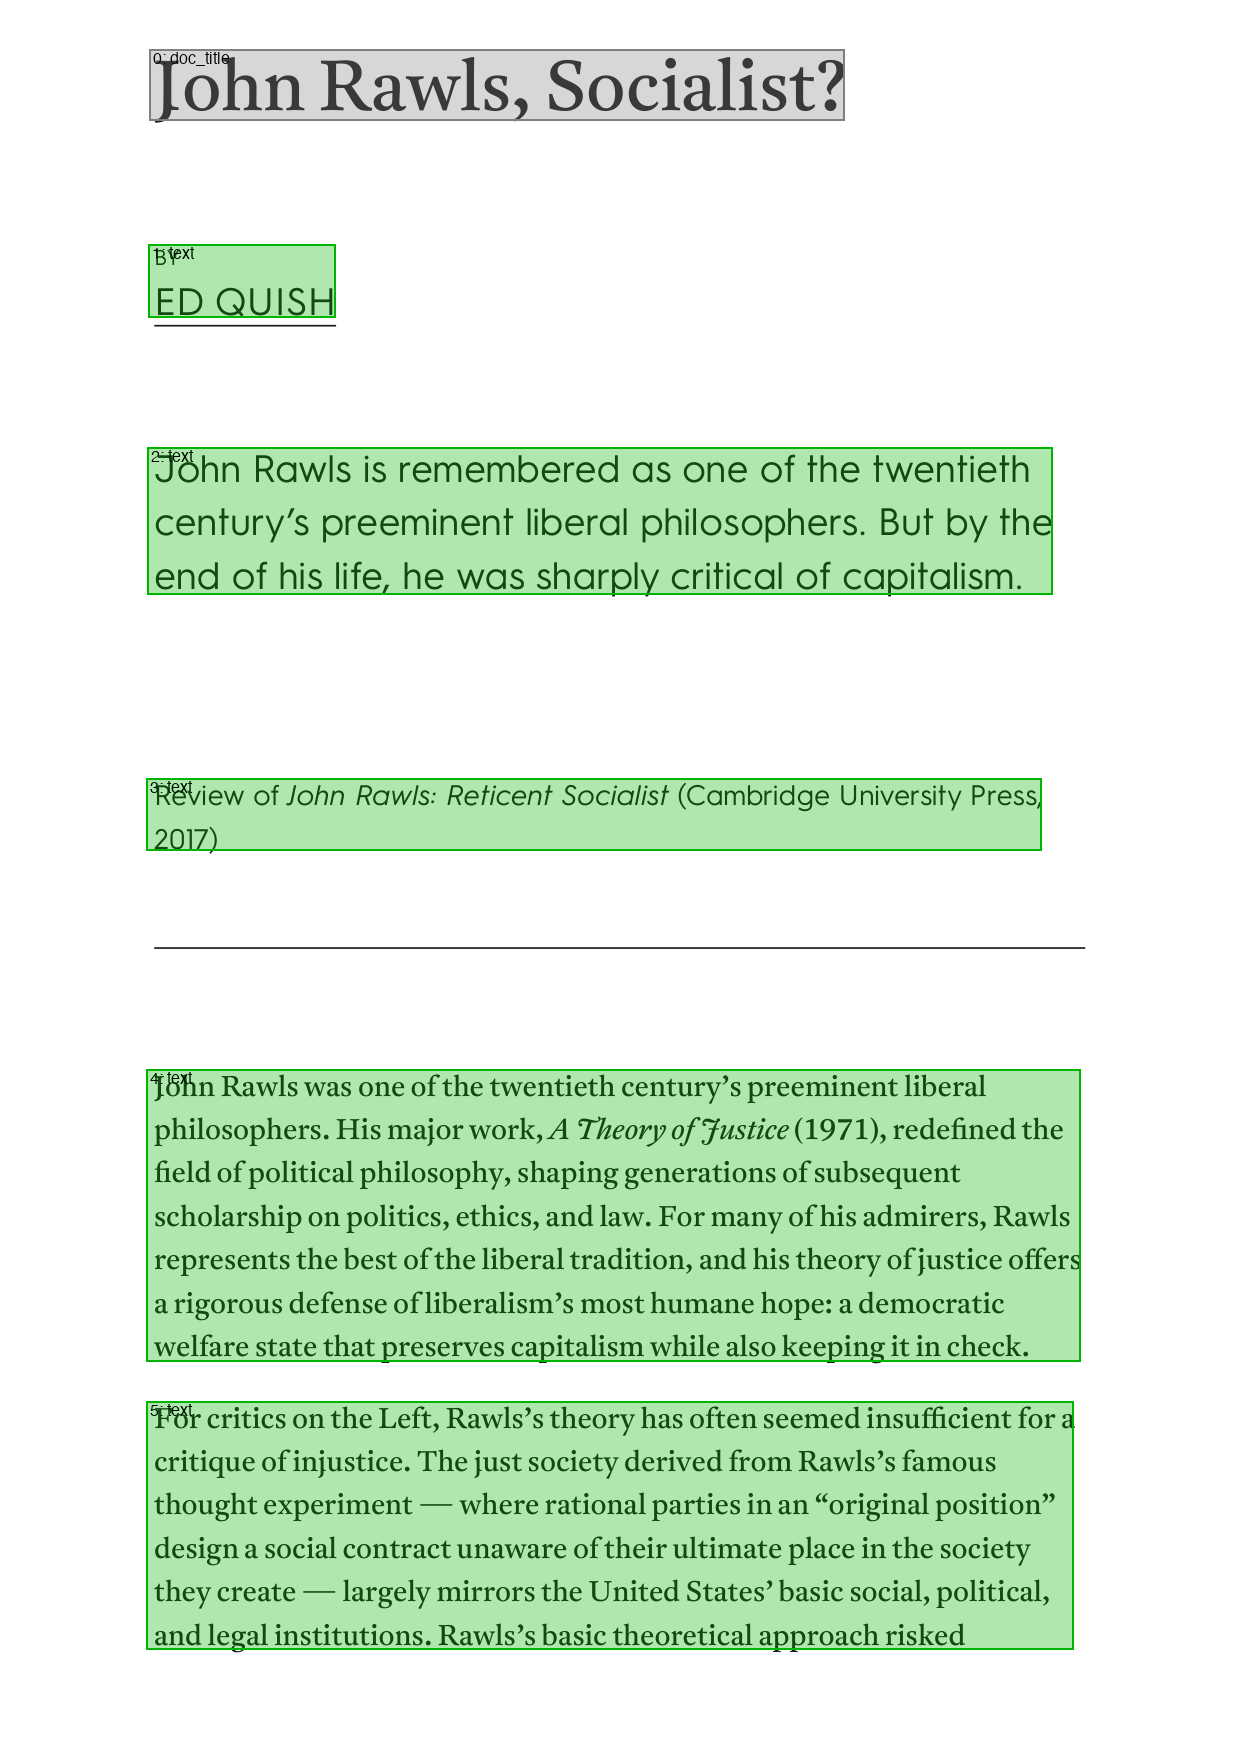
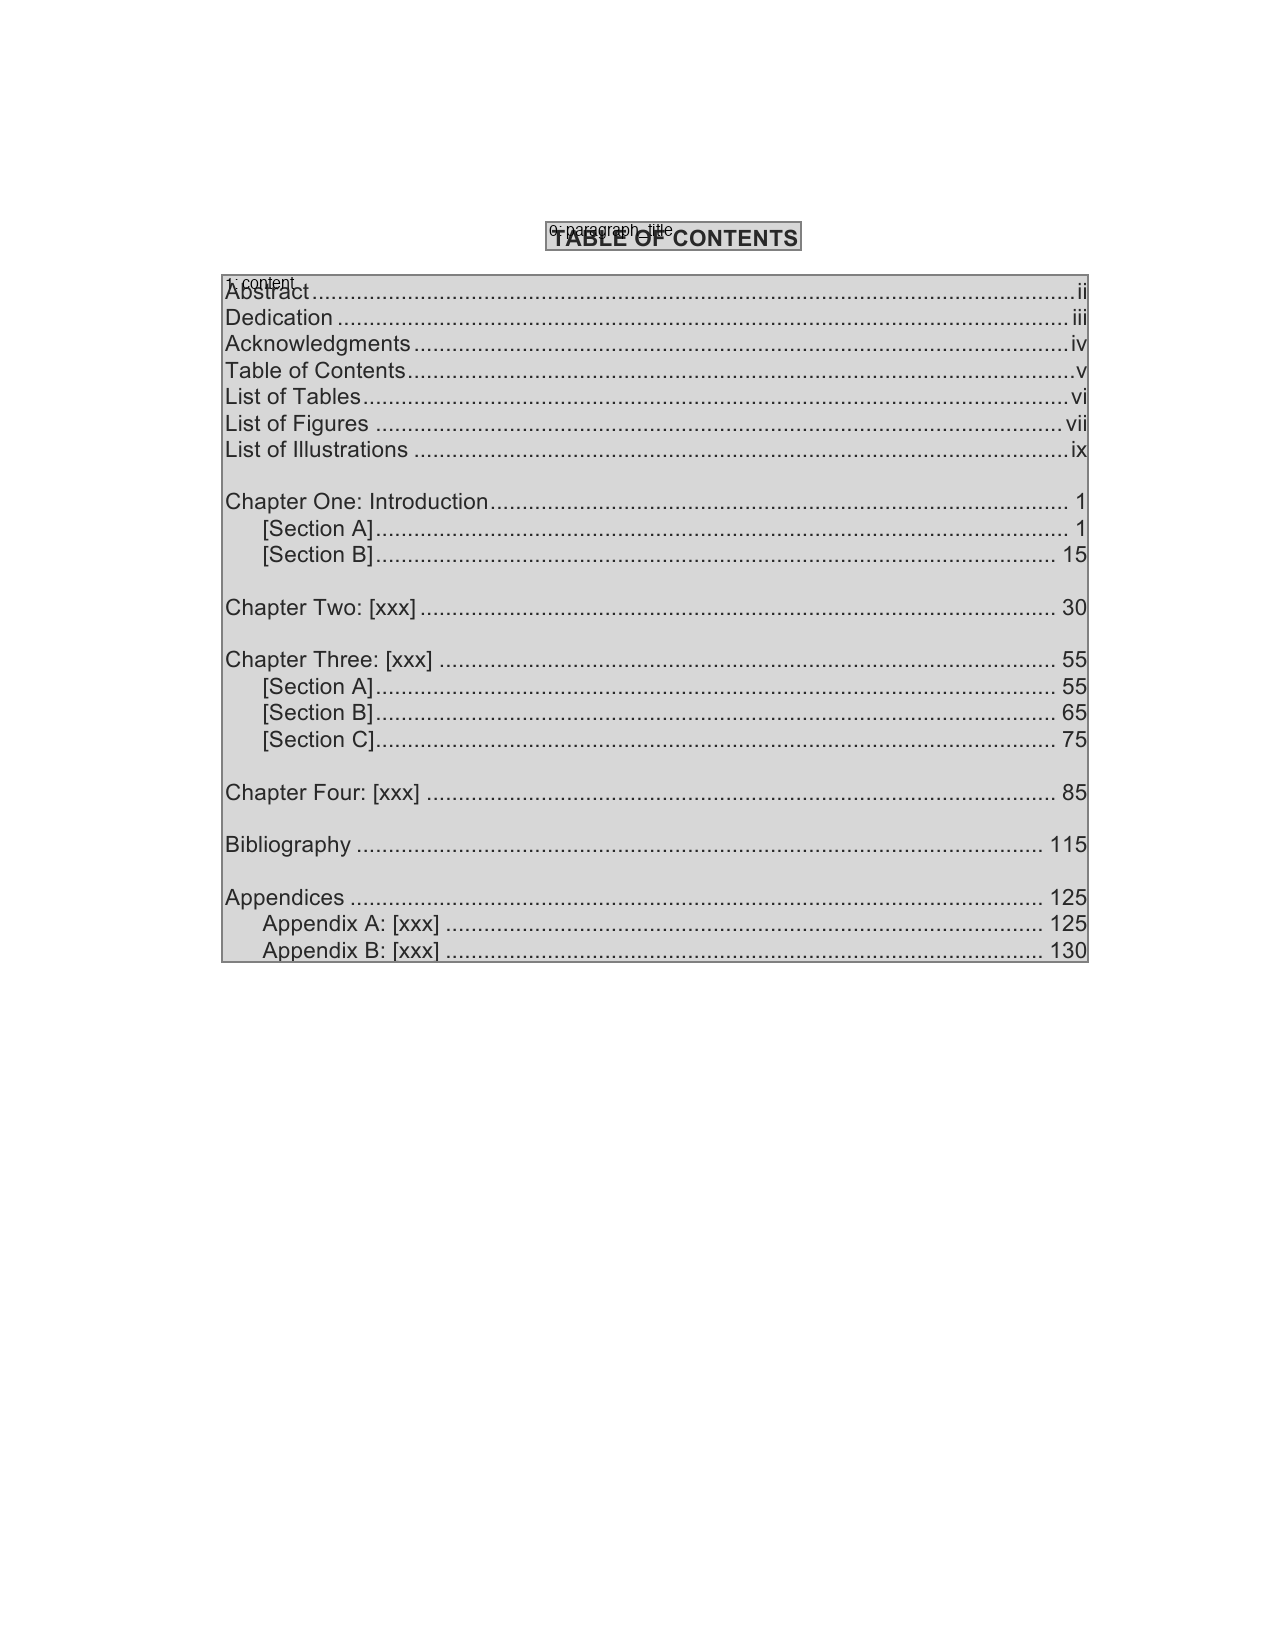
Detect TOC

diff --git a/src/pdf_parser.py b/src/pdf_parser.py
@@ -900,6 +900,7 @@ def extract_pdf_with_paddle(pdf_path: str | Path) -> tuple[str, dict, list[dict]
         "equation": "VERBATIM",
         "formula": "VERBATIM",
         "abstract": "BODY",
+        "content": "VERBATIM",         # table of contents entries
         "seal": "VERBATIM",
         "number": "STRIP",         # page numbers — discard
         "header": "STRIP",         # page headers — discard
